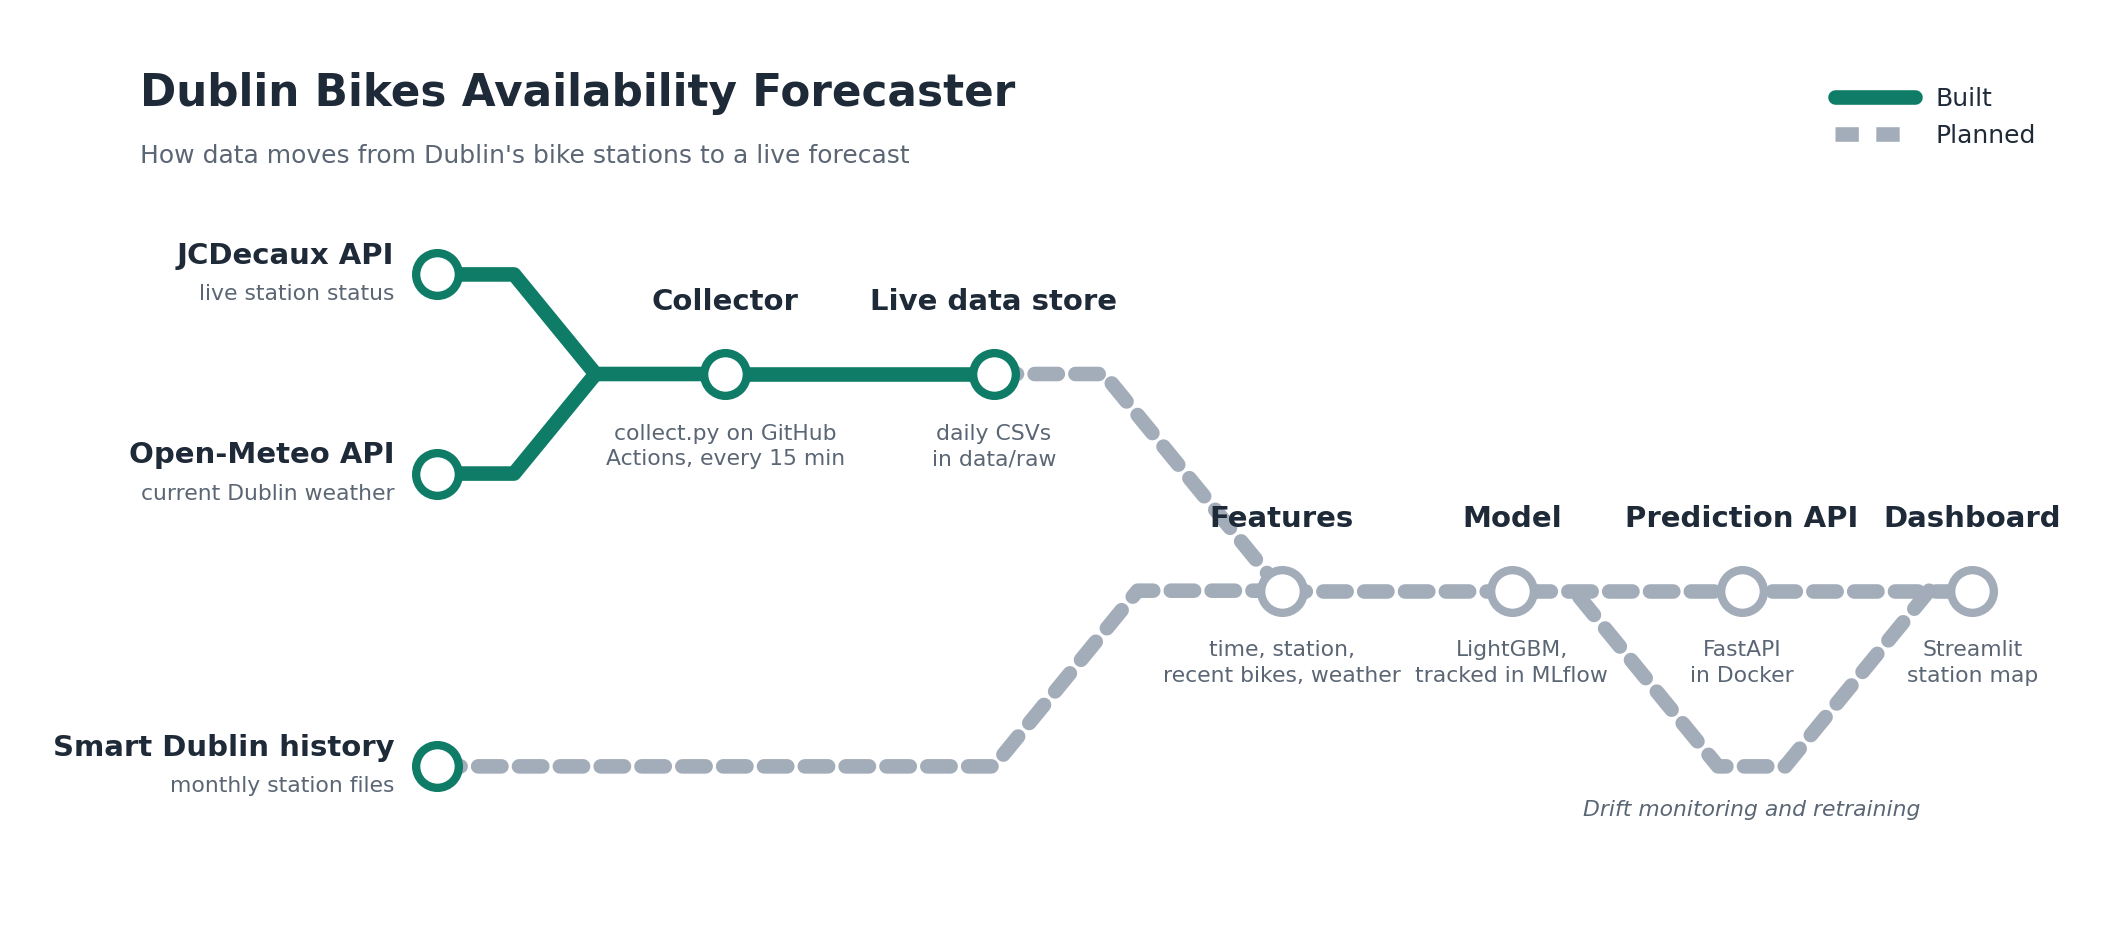
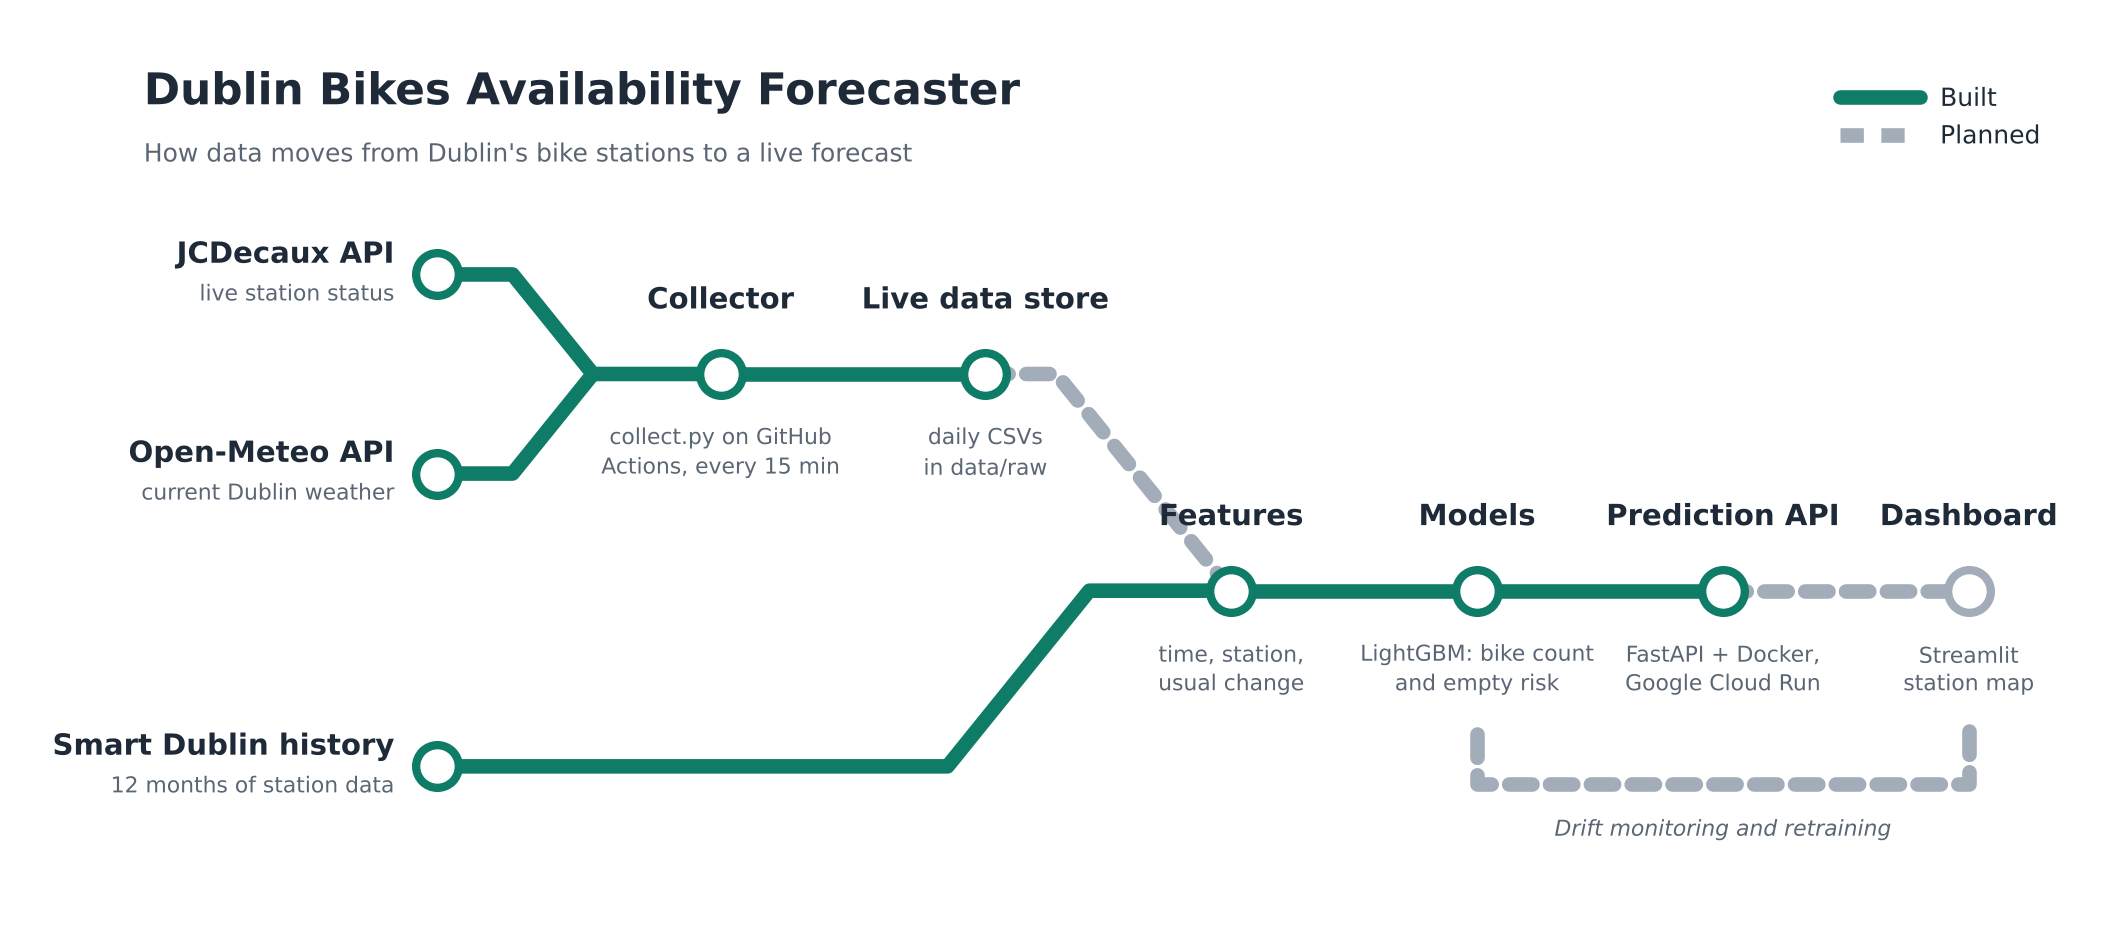
Changes in the Readme file

diff --git a/README.md b/README.md
@@ -1,8 +1,10 @@
 # 🚲 Dublin Bikes Availability Forecaster
 
-**Predicting how many bikes a Dublin Bikes station will have in the next 30–60 minutes, using live data that is collected automatically every 15 minutes.**
+**Predicting how many bikes a Dublin Bikes station will have in 30 minutes, and the risk that it runs out, using live data collected automatically every 15 minutes.**
 
-> 🚧 **Work in progress.** The live data pipeline and exploratory analysis are complete. Modelling, the prediction API and the dashboard are in development (see [Roadmap](#roadmap)).
+**Live API:** [https://dublin-bikes-api-683472226763.europe-west1.run.app/docs](https://dublin-bikes-api-683472226763.europe-west1.run.app/docs) (the first request after a quiet period takes a few seconds while the server starts)
+
+> 🚧 **Work in progress.** The data pipeline, both models and the prediction API are live. The map dashboard and automated retraining are in development (see [Roadmap](#roadmap)).
 
 ---
 
@@ -10,12 +12,20 @@
 
 Dublin Bikes has 115 stations across the city, but some of them are empty for a large share of the day. In June 2026, **Parnell Square North had zero bikes 47% of the time**, so a rider arriving there had close to a coin-flip chance of finding no bike.
 
-Live apps show how many bikes a station has *right now*. This project aims to predict how many it will have *by the time you get there*.
+Live apps show how many bikes a station has *right now*. This project predicts how many it will have *by the time you get there*, and how likely it is to be empty.
 
-## What it does so far
+## What it does
 
-- **Automated data collection:** a GitHub Actions workflow calls the JCDecaux Dublin Bikes API and the Open-Meteo weather API every 15 minutes, and commits each snapshot to this repo. It runs around the clock with no server or laptop needed.
-- **Exploratory analysis:** a month of historical station data (606,510 readings from 115 stations, June 2026) cleaned and analysed to find the patterns a model needs to learn.
+- **Automated data collection:** a GitHub Actions workflow calls the JCDecaux Dublin Bikes API and the Open-Meteo weather API every 15 minutes and commits each snapshot to this repo.
+- **Exploratory analysis:** 12 months of historical station data (July 2025 to June 2026, 7.1 million readings from 115 stations) cleaned and analysed.
+- **Two LightGBM models:** one predicts the number of bikes in 30 minutes; the other predicts the probability that a station will be empty.
+- **Prediction API:** a FastAPI service, packaged with Docker and deployed on Google Cloud Run, serves both models with live data.
+
+## Architecture
+
+![System architecture: data flows from the JCDecaux and Open-Meteo APIs through a scheduled collector into a data store; 12 months of history feed features and models, which are served by a prediction API on Google Cloud Run](images/architecture.png)
+
+Green lines show components that are built and running; grey dashed lines show planned components.
 
 ## Key findings
 
@@ -36,13 +46,13 @@ I expected northside residential stations and southside office stations to run e
 
 Both stations are mostly empty at night. The real difference is how reliably they refill. Because each station has its own rhythm, **station identity needs to be a model feature**.
 
-### 3. "Same as now" will be a strong baseline
+### 3. "Same as now" is a strong baseline
 
-A station that is empty at 1 a.m. is almost always still empty at 1:30 a.m. Predicting "no change" will therefore score well overall, especially at night. The model will be **evaluated hour by hour**, with a focus on rush hours (7–9 a.m. and 4–7 p.m.), when stations change fastest and simple guesses fail.
+A station that is empty at 1 a.m. is almost always still empty at 1:30 a.m. Predicting "no change" therefore scores well overall, especially at night. Models are **evaluated hour by hour**, with a focus on rush hours (7–9 a.m. and 4–7 p.m.), when stations change fastest and simple guesses fail.
 
-## Results
+## Results: bikes in 30 minutes
 
-Predicting bikes at each station 30 minutes ahead. Trained on Jul 2025–Feb 2026, validated on Mar 2026, tested on Apr–Jun 2026 (about 1 million unseen predictions).
+Trained on Jul 2025–Feb 2026, validated on Mar 2026, tested on Apr–Jun 2026 (about 1 million unseen predictions).
 
 | Method | Mean error (bikes) |
 |---|---|
@@ -51,7 +61,14 @@ Predicting bikes at each station 30 minutes ahead. Trained on Jul 2025–Feb 202
 | Now + typical change for this station and hour | 1.03 |
 | **LightGBM** | **0.97** |
 
-## Empty-station alerts
+![Prediction error by hour](images/model_error_by_hour.png)
+
+- LightGBM beats every baseline overall and at every hour of the day.
+- At the 8 a.m. peak, error falls from 3.24 bikes (same as now) to 2.35 (27% lower). Most of that gain comes from knowing which way each station usually moves at that hour.
+- The historical average is far worse because a station's count carries over from earlier in the day: knowing the usual *level* doesn't help, but knowing the usual *change* does.
+- Recent movement (change over the last 15–60 minutes) added surprisingly little, suggesting short-term station changes behave more like random arrivals than trends.
+
+## Results: empty-station alerts
 
 A second LightGBM model predicts the probability that a station will have **zero bikes in 30 minutes**.
 
@@ -64,47 +81,68 @@ A second LightGBM model predicts the probability that a station will have **zero
 
 - Overall the classifier roughly matches the baseline, because most empty stations are already empty and easy to predict.
 - The difference is **early warnings**. In the test months, stations with bikes ran out within 30 minutes 23,657 times. "Same as now" can never warn about these; the classifier warned about **22%** of them.
-- Early warnings were correct **46%** of the time, compared with a base rate of **2.6%**: about 18× better than chance, but still less than half right. The dashboard will therefore show these as a *risk level*, not a certainty.
+- Early warnings were correct **46%** of the time, compared with a base rate of **2.6%**: about 18× better than chance, but still less than half right. Predictions are therefore shown as a *risk level*, not a certainty.
 - The threshold controls the trade-off: at 0.3 the model catches 40% of stations about to run out (39% of warnings correct); at 0.6 it catches 3% (57% correct).
 
-![Prediction error by hour](images/model_error_by_hour.png)
+## Prediction API
 
-- LightGBM beats every baseline overall and at every hour of the day.
-- At the 8 a.m. peak, error falls from 3.24 bikes (same as now) to 2.35 (27% lower). Most of that gain comes from knowing which way each station usually moves at that hour.
-- The historical average is far worse because a station's count carries over from earlier in the day: knowing the usual *level* doesn't help, but knowing the usual *change* does.
-- Recent movement (change over the last 15–60 minutes) added surprisingly little, suggesting short-term station changes behave more like random arrivals than trends.
-- Empty-station alerts are not yet improved over the baseline (78% precision and recall); this is the next focus.
+A FastAPI service serves both models with live data. It fetches current station status from JCDecaux (at most every 5 minutes), builds features with the same code used in training (`src/features.py`), and returns predictions as JSON.
 
+| Endpoint | What it returns |
+|---|---|
+| `GET /forecast` | Predictions for every station |
+| `GET /forecast/{station_id}` | Prediction for one station |
+| `GET /health` | Service status and how much live data is in memory |
 
-## Architecture
+Example response:
 
-![System architecture: data flows from the JCDecaux and Open-Meteo APIs through a scheduled collector into a data store, then on to features, model, prediction API and dashboard](images/architecture.png)
+```json
+{
+  "station_id": 21,
+  "name": "LEINSTER STREET SOUTH",
+  "capacity": 30,
+  "bikes_now": 0,
+  "bikes_in_30_min": 0,
+  "empty_risk": 0.91,
+  "empty_risk_level": "high"
+}
+```
 
-Green lines show components that are built and running; grey dashed lines show planned components.
+`empty_risk_level` is `high` at or above the alert threshold chosen on validation data (0.41), `medium` from half that threshold, and `low` below.
 
-
+The service is packaged with Docker and deployed on **Google Cloud Run** (europe-west1), which scales to zero when idle to stay within the free tier.
 
 ## Project structure
 
 ```
 dublin-bikes-forecast/
 ├── .github/workflows/
-│   └── collect.yml        # scheduled data collection (every 15 min)
+│   └── collect.yml            # scheduled data collection (every 15 min)
+├── api/
+│   └── main.py                # FastAPI prediction service
 ├── data/
-│   ├── raw/               # live snapshots collected by the workflow
-│   └── historical/        # monthly history files (downloaded locally, not committed)
-├── images/                # charts used in this README
+│   ├── raw/                   # live snapshots collected by the workflow
+│   └── historical/            # monthly history files (downloaded locally, not committed)
+├── images/                    # charts used in this README
+├── models/                    # trained models, alert threshold, usual-behaviour table
 ├── notebooks/
-│   └── 01_explore.ipynb   # exploratory data analysis
+│   ├── 01_explore.ipynb       # exploratory data analysis
+│   ├── 02_baselines.ipynb     # baseline models
+│   ├── 03_lightgbm.ipynb      # bike-count forecasting model
+│   └── 04_empty_alert.ipynb   # empty-station alert classifier
 ├── src/
-│   └── collect.py         # fetches station status + weather, appends to CSV
-├── requirements.txt
+│   ├── collect.py             # fetches station status + weather
+│   ├── download_history.py    # downloads and combines 12 months of history
+│   └── features.py            # feature building, shared by training and the API
+├── Dockerfile
+├── requirements.txt           # everything (notebooks, training, API)
+├── requirements-api.txt       # only what the API container needs
 └── README.md
 ```
 
 ## Running it yourself
 
-**Requirements:** Python 3.10+ and a free [JCDecaux API key](https://developer.jcdecaux.com/#/opendata/vls?page=getstarted).
+**Requirements:** Python 3.10+ and a free [JCDecaux API key](https://developer.jcdecaux.com/#/opendata/vls?page=getstarted). On macOS, LightGBM also needs `brew install libomp`.
 
 ```bash
 git clone https://github.com/X2RSaM/dublin-bikes-forecast.git
@@ -112,9 +150,40 @@ cd dublin-bikes-forecast
 python3 -m venv .venv
 source .venv/bin/activate
 pip install -r requirements.txt
-
 export JCDECAUX_API_KEY=your_key_here
+```
+
+**Collect a live snapshot:**
+
+```bash
 python src/collect.py
+```
+
+**Download 12 months of history (about 1 GB):**
+
+```bash
+python src/download_history.py
+```
+
+**Run the API locally**, then open http://127.0.0.1:8000/docs:
+
+```bash
+uvicorn api.main:app --reload
+```
+
+**Run the API with Docker:**
+
+```bash
+docker build -t dublin-bikes-api .
+docker run --rm -p 8000:8000 -e JCDECAUX_API_KEY=$JCDECAUX_API_KEY dublin-bikes-api
+```
+
+**Deploy to Google Cloud Run:**
+
+```bash
+gcloud run deploy dublin-bikes-api --source . --region europe-west1 \
+  --allow-unauthenticated --memory 1Gi --max-instances 1 \
+  --set-env-vars JCDECAUX_API_KEY=$JCDECAUX_API_KEY
 ```
 
 To run the automated collection on your own fork, add your key as a repository secret named `JCDECAUX_API_KEY` (Settings → Secrets and variables → Actions) and set workflow permissions to "Read and write".
@@ -128,11 +197,10 @@ To run the automated collection on your own fork, add your key as a repository s
 - [x] LightGBM forecasting model (beats all baselines)
 - [x] Hour-by-hour evaluation, focused on rush hours
 - [x] Empty-station alert classifier with probability output
+- [x] Prediction API (FastAPI + Docker), deployed on Google Cloud Run
+- [ ] Interactive map dashboard (Streamlit), deployed online
 - [ ] Experiment tracking with MLflow
 - [ ] Weather features and 60-minute forecasts
-- [x] Prediction API (FastAPI)
-- [x] Package the API with Docker
-- [ ] Interactive map dashboard (Streamlit), deployed online
 - [ ] Data drift monitoring and automated retraining
 
 ## Data sources
